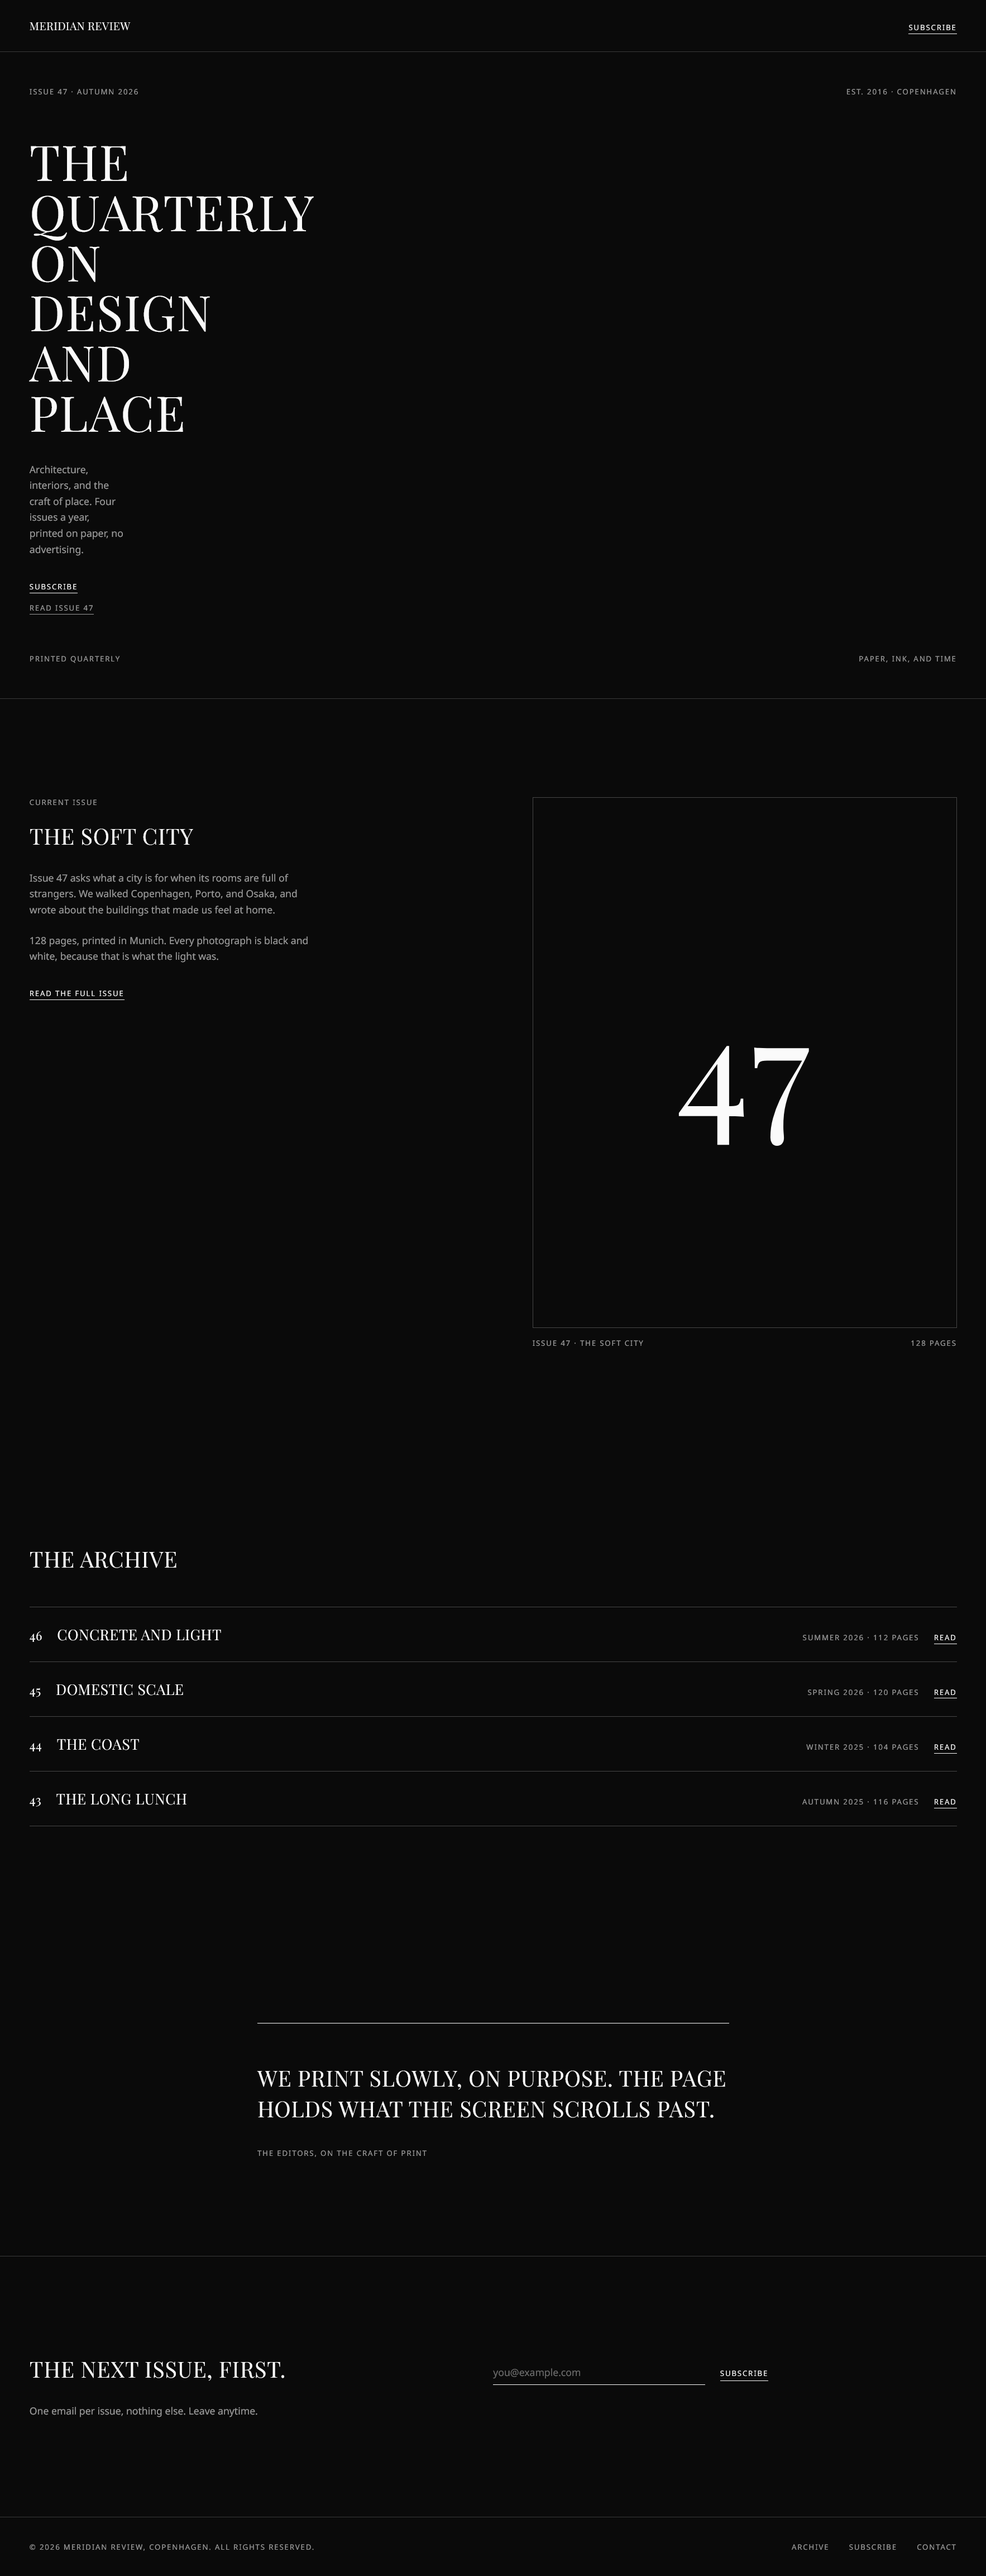
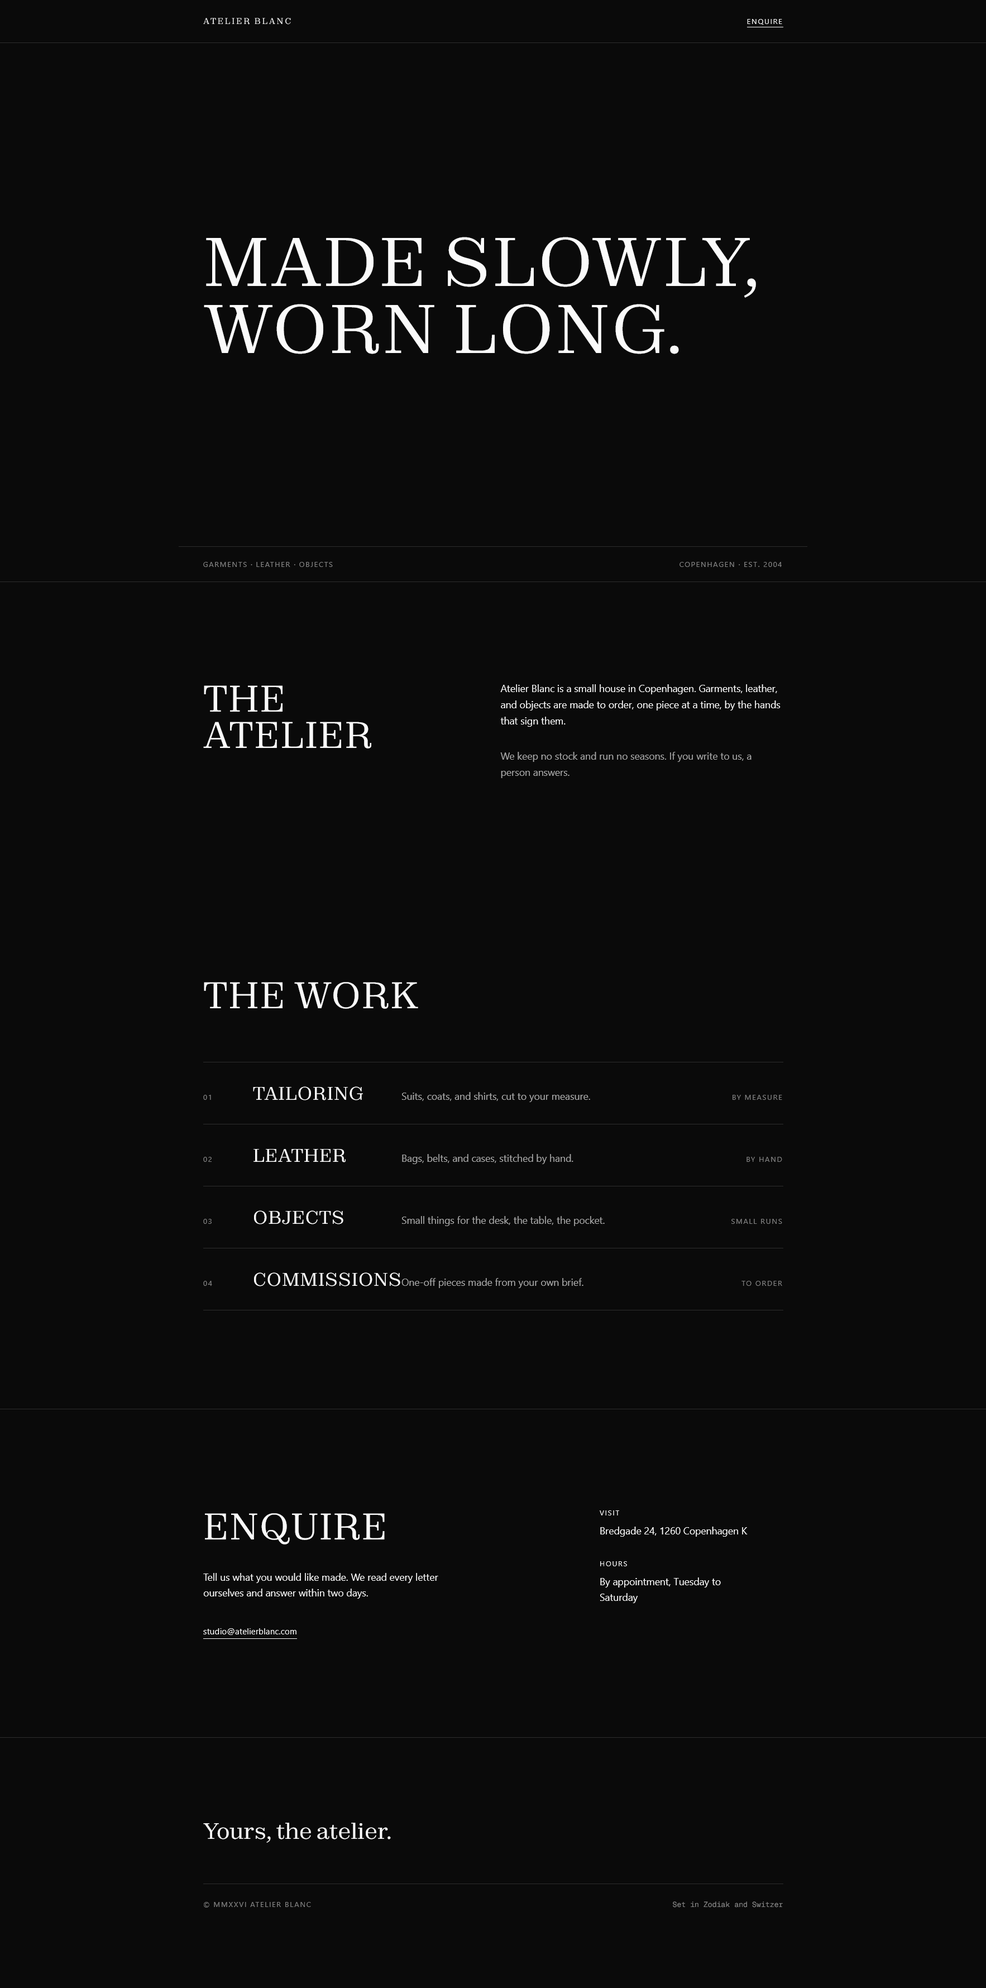
Update: README

diff --git a/README.md b/README.md
@@ -6,7 +6,7 @@
 
 **A design skill for Hermes Agent that refuses to look AI-generated.**
 
-Multiple aesthetic styles. Exact CSS recipes. A motion system. A typographic scale. Named anti-patterns. The agent reads the brief, sets four dials (DEPTH / SOFTNESS / TRANSLUCENCY / GLOW), and ships interfaces with depth and glow — not another purple-gradient hero with three equal cards.
+Multiple aesthetic styles. Exact CSS recipes. A motion system. A typographic scale. Named anti-patterns. The agent reads the brief, sets four dials (DEPTH / SOFTNESS / TRANSLUCENCY / GLOW), and ships interfaces with depth and glow. Not another purple-gradient hero with three equal cards.
 
 ---
 
@@ -15,19 +15,27 @@ Multiple aesthetic styles. Exact CSS recipes. A motion system. A typographic sca
 <table>
   <tr>
     <td width="25%"><img src="assets/preview/glassmorph-half.png" alt="Glassmorphism" /></td>
-    <td width="25%"><img src="assets/preview/neubrutalism-half.png" alt="Neubrutalism" /></td>
+    <td width="25%"><img src="assets/preview/futurism-half.png" alt="Futurism" /></td>
   </tr>
   <tr>
     <td><b>Glassmorphism</b><br/><sub>Frosted Glass · SaaS landing / Hero Overlays</sub></td>
-    <td><b>Neubrutalism</b><br/><sub>Thick Border · Portfolios / Dev Tools</sub></td>
-  </tr>
-  <tr>
-    <td width="25%"><img src="assets/preview/futurism-half.png" alt="Futurism" /></td>
-    <td width="25%"><img src="assets/preview/minimalism-half.png" alt="Minimalism" /></td>
-  </tr>
-  <tr>
     <td><b>Futurism</b><br/><sub>Mono Phospor · Terminal / Dashboard</sub></td>
-    <td><b>Minimalism</b><br/><sub>Minimal · Publishing / Galleries</sub></td>
+  </tr>
+  <tr>
+    <td width="25%"><img src="assets/preview/neubrutalism-half.png" alt="Neubrutalism" /></td>
+    <td width="25%"><img src="assets/preview/brutalism-half.png" alt="Brutalism" /></td>
+  </tr>
+  <tr>
+    <td><b>Neubrutalism</b><br/><sub>Thick Border · Portfolios / Dev Tools</sub></td>
+    <td><b>Brutalism</b><br/><sub>Raw Monochrome · Avant-garde Studios / Zines</sub></td>
+  </tr>
+  <tr>
+    <td width="25%"><img src="assets/preview/minimalism-half.png" alt="Minimalism" /></td>
+    <td width="25%"><img src="assets/preview/maximalism-half.png" alt="Maximalism" /></td>
+  </tr>
+  <tr>
+    <td><b>Minimalism</b><br/><sub>Minimal · Galleries / Luxury Brands</sub></td>
+    <td><b>Maximalism</b><br/><sub>Maximal · Creative Agency / Fashion</sub></td>
   </tr>
   <tr>
     <td width="25%"><img src="assets/preview/swiss-half.png" alt="Swiss Design" /></td>
@@ -38,24 +46,6 @@ Multiple aesthetic styles. Exact CSS recipes. A motion system. A typographic sca
     <td><b>Bauhaus</b><br/><sub>Flat Geometric · Posters / Arts & Culture</sub></td>
   </tr>
 </table>
-
----
-
-## Install
-
-```bash
-npx the-morphism init
-```
-
-Copies the skill into `skills/the-morphism/` — Hermes auto-loads it from there.
-
-| Command | Does |
-|---|---|
-| `npx the-morphism init` | SKILL.md + references + .txt template |
-| `npx the-morphism init --core` | Only SKILL.md (no refs, no templates) |
-| `npx the-morphism init --templates-only` | Only the plain-text prompt template |
-
-Re-run any time to update. Non-Hermes users: use `--templates-only` and paste the .txt into your system prompt.
 
 ---
 
@@ -79,15 +69,33 @@ Re-run any time to update. Non-Hermes users: use `--templates-only` and paste th
 | **Swiss Design** | Flat, neutral, typographic, grid-disciplined | Editorial, docs, archives, museums, design systems |
 | **Bauhaus** | Flat, geometric, primary colors, bold type | Posters, arts & culture, education, architecture |
 
-One style per page. Never mix. The skill handles the decision — every style comes with an exact CSS recipe, Tailwind v4 equivalents, per-style dial presets, color rules, motion character, copy voice, and named tells of what not to do.
+One style per page. Never mix. The skill handles the decision. Each style comes with an exact CSS recipe, Tailwind v4 equivalents, per-style dial presets, color rules, motion character, copy voice, and named tells of what not to do.
 
 Beyond the styles, the skill ships a shared craft layer:
 
-- **A motion system** — easing tokens, a duration canon, page-load orchestration, hover/reveal/loading recipes, and reduced-motion nuance.
-- **A typographic scale** — the 2+1 font rule, ratio-based sizing, measure, and weight contrast.
-- **A layout system** — a spacing scale, z-index levels, and the "one layout family per page" rule.
-- **Named anti-patterns** — THE PILL BADGE, THE EM-DASH, INTER-BY-DEFAULT, THE SOFT SHADOW, THE TRANSITION-ALL, and more. Each tell is named so the agent recognizes and avoids it.
-- **A pre-emit self-critique** — six axes scored before shipping.
+- **A motion system** : easing tokens, a duration canon, page-load orchestration, hover/reveal/loading recipes, and reduced-motion nuance.
+- **A typographic scale** : the 2+1 font rule, ratio-based sizing, measure, and weight contrast.
+- **A layout system** : a spacing scale, z-index levels, and the "one layout family per page" rule.
+- **Named anti-patterns** : THE PILL BADGE, THE EM-DASH, INTER-BY-DEFAULT, THE SOFT SHADOW, THE TRANSITION-ALL, and more. Each tell is named so the agent recognizes and avoids it.
+- **A pre-emit self-critique** : six axes scored before shipping.
+
+---
+
+## Install
+
+```bash
+npx the-morphism init
+```
+
+Copies the skill into `skills/the-morphism/`. Hermes auto-loads it from there.
+
+| Command | Does |
+|---|---|
+| `npx the-morphism init` | SKILL.md + references + .txt template |
+| `npx the-morphism init --core` | Only SKILL.md (no refs, no templates) |
+| `npx the-morphism init --templates-only` | Only the plain-text prompt template |
+
+Re-run any time to update. Non-Hermes users: use `--templates-only` and paste the .txt into your system prompt.
 
 ---
 
